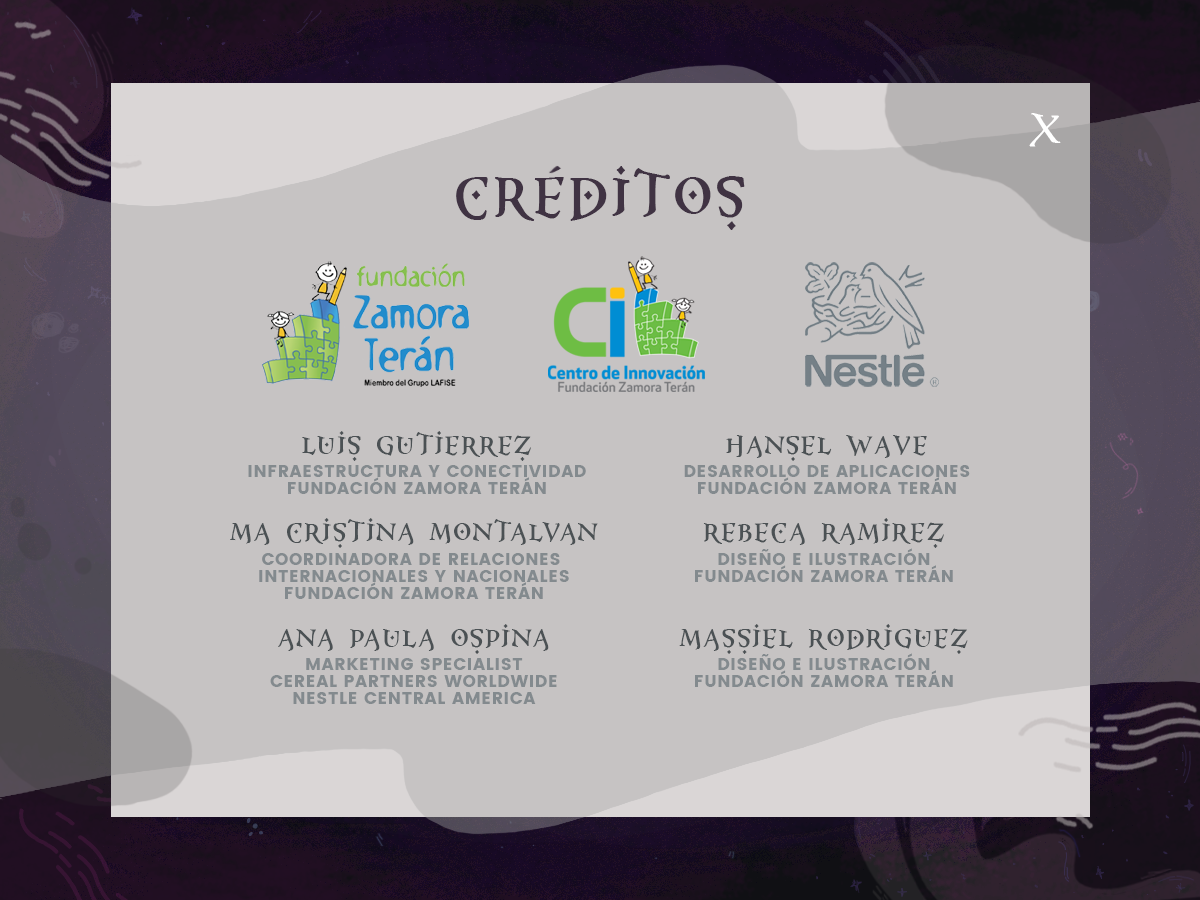
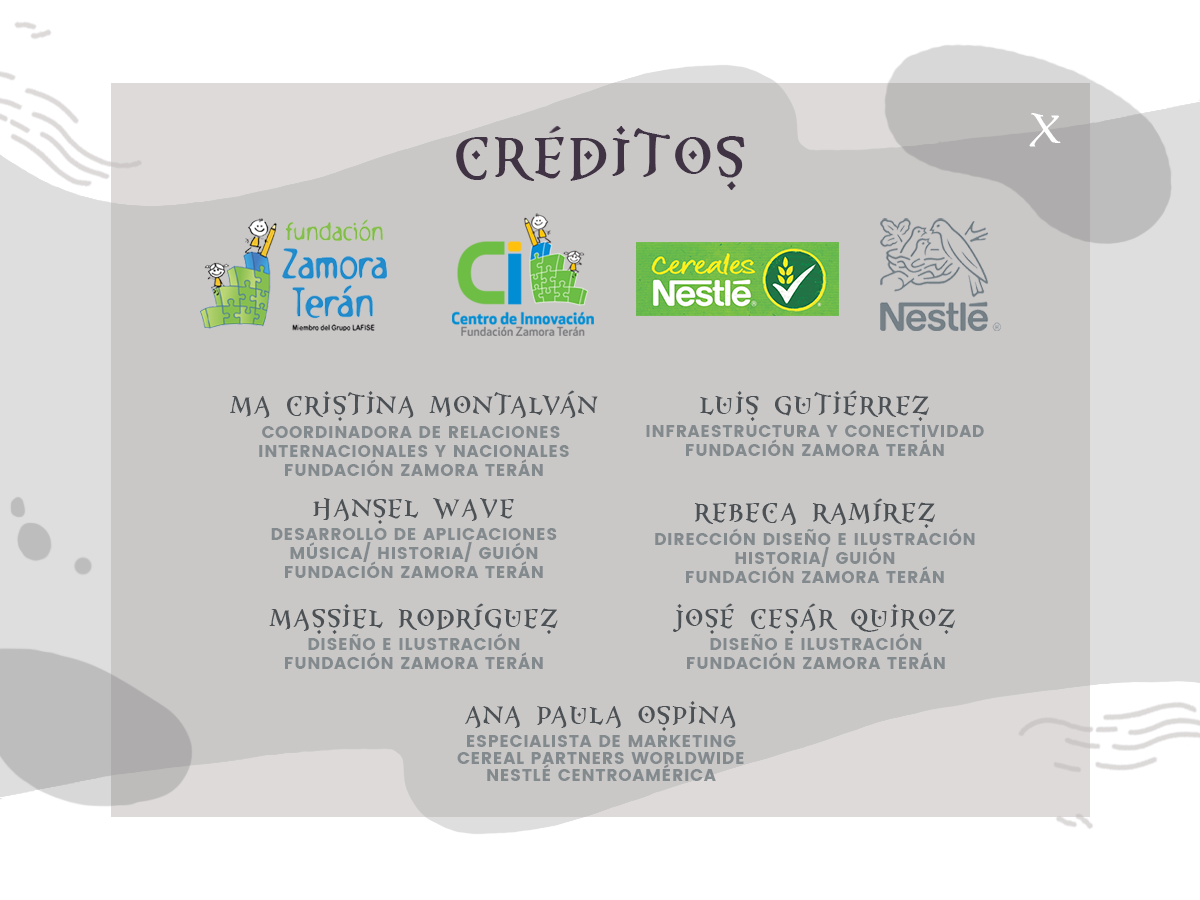
change menu credits background

diff --git a/scenarios/menu/credits.py b/scenarios/menu/credits.py
@@ -11,20 +11,20 @@ class Credit:
         self.screen2 = pygame.Surface((1200, 900),
                                       flags=pygame.SRCALPHA).convert_alpha()
         self.clock = clock
-        self.exit_button = Button(1030,
-                                  120,
-                                  "exit.png",
-                                  "exit.png",
-                                  "exit.png",
-                                  36,
-                                  38)
+        # self.exit_button = Button(1030,
+        #                           120,
+        #                           "exit.png",
+        #                           "exit.png",
+        #                           "exit.png",
+        #                           36,
+        #                           38)
 
         # Logos
 
-        self.background = utils.load_image("credits_door/background.png", "menu")
-        self.title = utils.load_image("credits_door/title.png", "menu")
-        self.logos = utils.load_image("credits_door/logos.png", "menu")
-        self.team = utils.load_image("credits_door/team.png", "menu")
+        self.background = utils.load_image("credits_door/main.png", "menu")
+        #self.title = utils.load_image("credits_door/title.png", "menu")
+        #self.logos = utils.load_image("credits_door/logos.png", "menu")
+        #self.team = utils.load_image("credits_door/team.png", "menu")
 
     def run(self):
         """ control the actions happening on the credit modal"""
@@ -45,13 +45,13 @@ class Credit:
             # set all the elements to appear on the credit's modal
 
             self.screen2.blit(self.background, (0, 0))
-            self.screen2.blit(self.title, (465, 160))
-            self.screen2.blit(self.logos, (275, 270))
-            self.screen2.blit(self.team, (215, 460))
+            #self.screen2.blit(self.title, (465, 160))
+            #self.screen2.blit(self.logos, (275, 270))
+            #self.screen2.blit(self.team, (215, 460))
 
             # make everything appear on the screen
 
             self.screen.blit(self.screen2, (0, 0))
-            self.screen.blit(self.exit_button.base, (1030, 120))
+            #self.screen.blit(self.exit_button.base, (1030, 120))
             pygame.display.flip()
             self.clock.tick(consts.FPS)
